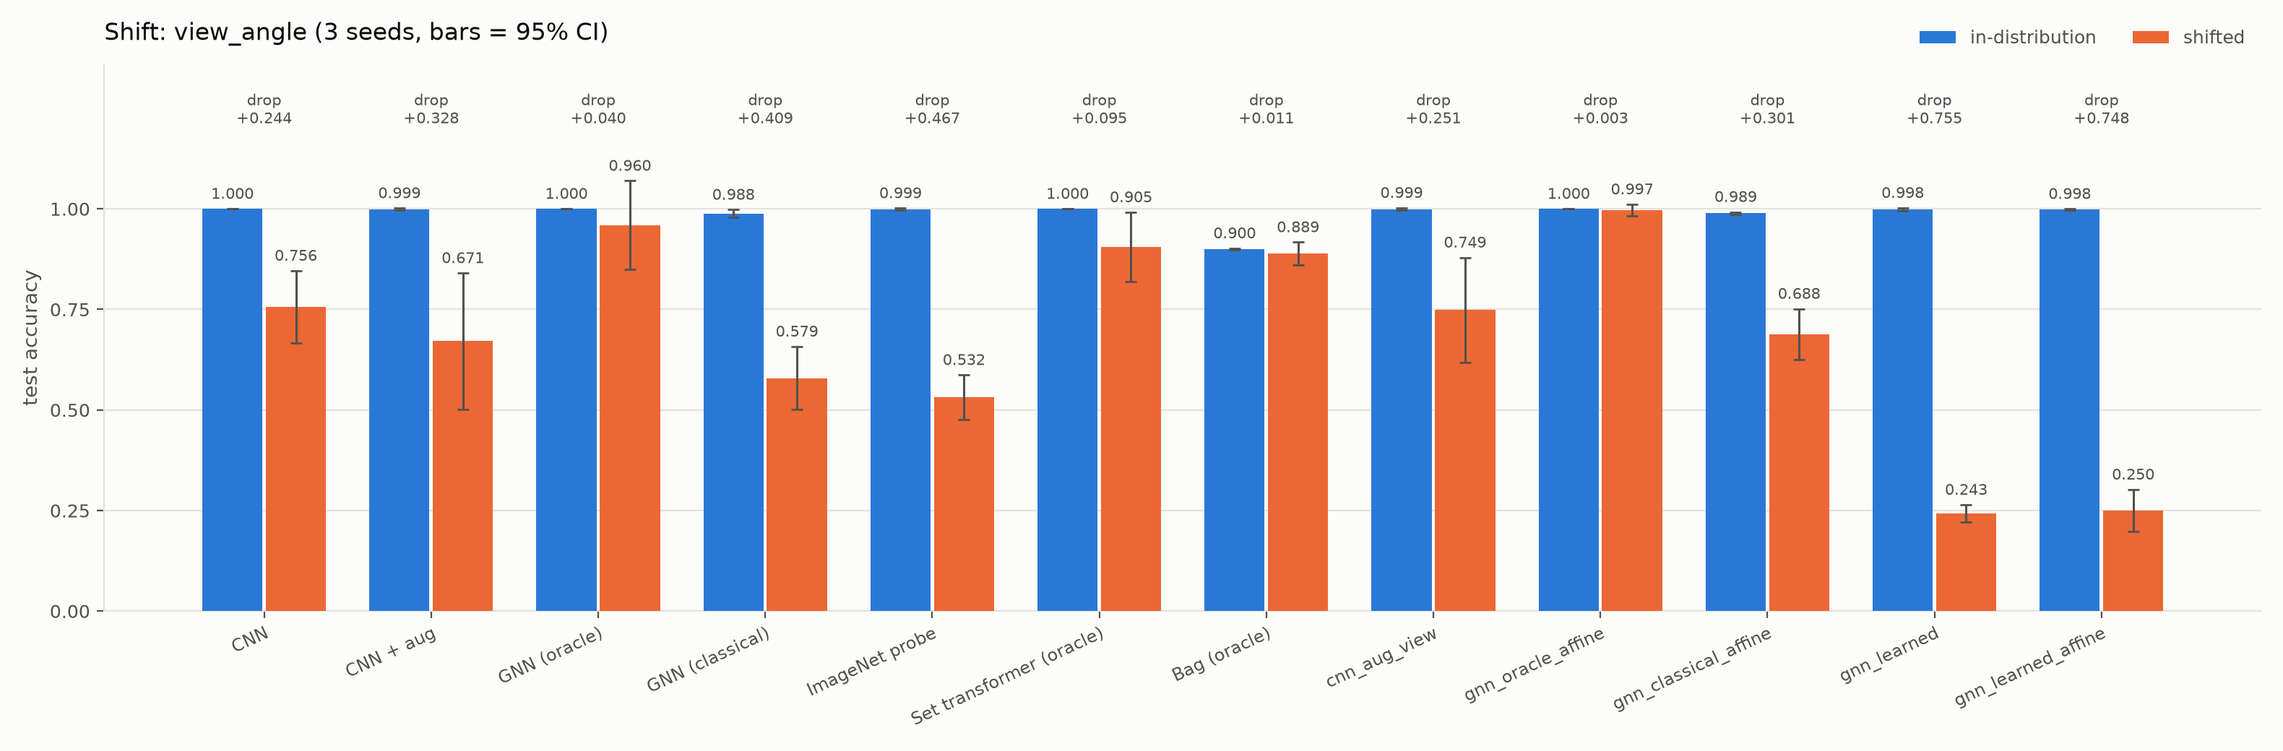
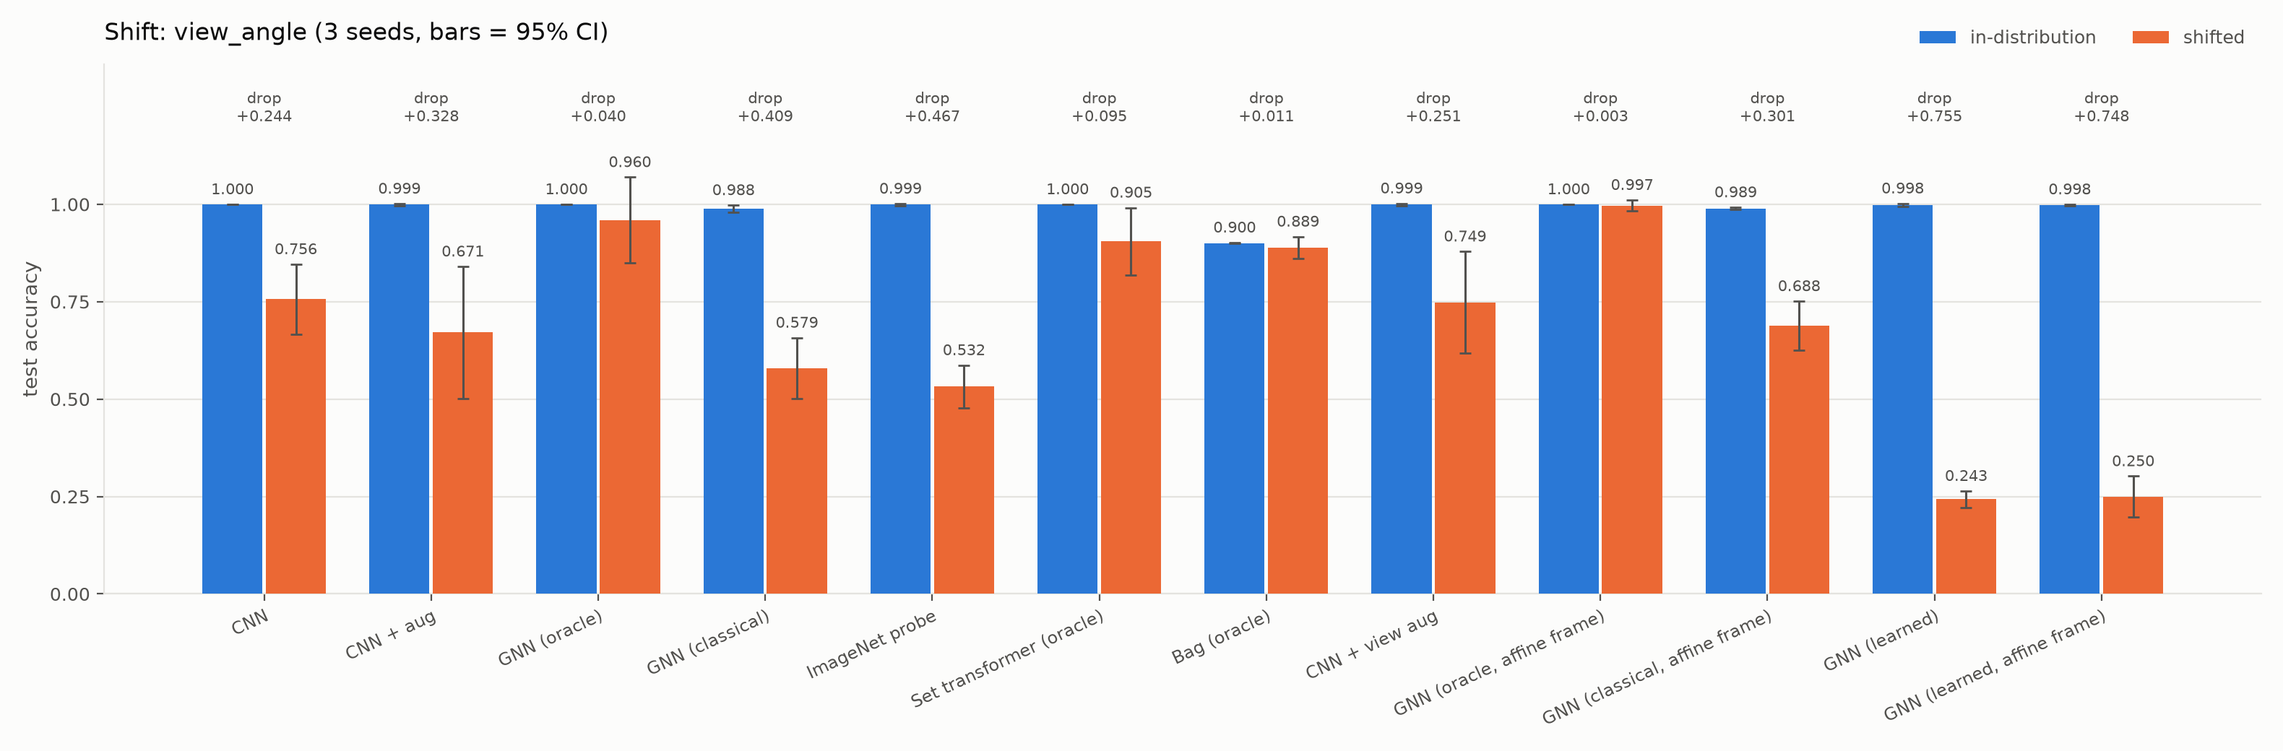
Phase 2 results: angle extrapolation, full-range few-shot, rotation relation test
- results/phase2/SUMMARY.md: the done-when check and every table. The
  oracle GNN in the affine frame extrapolates from 0-30 to 70 degrees
  with no loss (0.996) where pixel models fall to 0.38-0.60; the
  advantage is lost in extraction (classical 0.616, learned 0.133).
- Learning-curve plots switch to small multiples (<= 4 series per panel)
  when there are more than five models; display names for every model.

Claude-Session: https://claude.ai/code/session_01SojNaaWHiJoRRuxsTd6pEi

diff --git a/scripts/plot_results.py b/scripts/plot_results.py
@@ -77,6 +77,20 @@ DISPLAY_NAMES = {
     "bag_classical": "Bag (classical)",
     "gnn_oracle_max": "GNN (oracle, max pool)",
     "gnn_oracle_attn": "GNN (oracle, attention pool)",
+    "gnn_oracle_affine": "GNN (oracle, affine frame)",
+    "gnn_classical_affine": "GNN (classical, affine frame)",
+    "gnn_learned": "GNN (learned)",
+    "gnn_learned_affine": "GNN (learned, affine frame)",
+    "cnn_aug_view": "CNN + view aug",
+    "cnn_aug_view_rot": "CNN + view/rot aug",
+    "cnn_aug_color": "CNN + colour aug",
+    "gnn_learned_app": "GNN (appearance-trained detector)",
+    "gnn_strokefit": "GNN (stroke fit)",
+    "st_strokefit": "Set transformer (stroke fit)",
+    "bag_strokefit": "Bag (stroke fit)",
+    "gnn_samfit": "GNN (SAM fit)",
+    "st_samfit": "Set transformer (SAM fit)",
+    "bag_samfit": "Bag (SAM fit)",
 }
 
 
@@ -125,7 +139,81 @@ def model_order(conditions: Dict[str, dict]) -> List[str]:
     return known + [m for m in seen if m not in known]
 
 
+PANEL_SLOTS = ["#2a78d6", "#eb6834", "#1baf7a", "#eda100"]  # validated slots 1-4
+PANEL_MARKERS = ["o", "s", "^", "D"]
+
+
+def model_groups(models: List[str]) -> List[tuple]:
+    """Pixel / oracle-graph / extracted-graph panels of at most four series."""
+    pixel = [m for m in models if m.startswith("cnn")]
+    oracle = [m for m in models if not m.startswith("cnn") and "oracle" in m]
+    other = [m for m in models if m not in pixel and m not in oracle]
+    groups = []
+    for title, ms in (("Pixel models", pixel), ("Graph models, oracle primitives", oracle),
+                      ("Graph models, extracted primitives", other)):
+        for i in range(0, len(ms), 4):
+            groups.append((title if i == 0 else f"{title} (cont.)", ms[i:i + 4]))
+    return groups
+
+
+def plot_learning_curve_panels(summary: dict, out_path: Path, metric: str = "test_acc") -> None:
+    """Small multiples for many models: a colour is never reused within a panel."""
+    conditions = summary["conditions"]
+    sizes = sorted(int(k) for k in conditions)
+    groups = model_groups(model_order(conditions))
+    cols = min(len(groups), 2)
+    rows = (len(groups) + cols - 1) // cols
+    fig, axes = plt.subplots(rows, cols, figsize=(6.6 * cols, 4.3 * rows), dpi=170, squeeze=False)
+    fig.patch.set_facecolor(SURFACE)
+    flat = [a for row in axes for a in row]
+    for ax, (title, models) in zip(flat, groups):
+        _style_axes(ax)
+        ends = []
+        for i, model in enumerate(models):
+            pts = []
+            for n in sizes:
+                entry = conditions[str(n)].get(model, {}).get(metric)
+                mean = _value(entry)
+                if mean is not None:
+                    half = _ci(entry)
+                    pts.append((n, mean, max(0.0, mean - half), min(1.0, mean + half)))
+            if not pts:
+                continue
+            xs, ys, los, his = zip(*pts)
+            ax.fill_between(xs, los, his, color=PANEL_SLOTS[i], alpha=0.14, linewidth=0, zorder=2)
+            ax.plot(xs, ys, color=PANEL_SLOTS[i], linewidth=2, marker=PANEL_MARKERS[i], markersize=6,
+                    markeredgecolor=SURFACE, markeredgewidth=1.2, zorder=3, label=display_name(model))
+            ends.append([ys[-1], xs[-1], display_name(model)])
+        ends.sort(key=lambda e: -e[0])
+        for j in range(1, len(ends)):
+            ends[j][0] = min(ends[j][0], ends[j - 1][0] - 0.06)
+        for y, x, label in ends:
+            ax.annotate(label, xy=(x, y), xytext=(6, 0), textcoords="offset points",
+                        color=TEXT_SECONDARY, fontsize=7.5, va="center", annotation_clip=False)
+        ax.set_xscale("log")
+        ax.set_xticks(sizes)
+        ax.set_xticklabels([str(n) for n in sizes])
+        ax.set_xlim(right=sizes[-1] * 3.5)
+        ax.set_ylim(0, 1.03)
+        ax.set_xlabel("training examples per class", color=TEXT_SECONDARY, fontsize=9)
+        ax.set_ylabel("test accuracy", color=TEXT_SECONDARY, fontsize=9)
+        ax.set_title(title, color=TEXT_PRIMARY, fontsize=10, loc="left")
+        leg = ax.legend(frameon=False, fontsize=7.5, loc="lower right")
+        for t in leg.get_texts():
+            t.set_color(TEXT_SECONDARY)
+    for ax in flat[len(groups):]:
+        ax.axis("off")
+    n_seeds = len(summary.get("seeds", []))
+    fig.suptitle(f"Learning curves ({n_seeds} seeds, band = 95% CI)", color=TEXT_PRIMARY, fontsize=12,
+                 x=0.01, ha="left")
+    fig.tight_layout()
+    fig.savefig(out_path, facecolor=SURFACE)
+    plt.close(fig)
+
+
 def plot_learning_curve(summary: dict, out_path: Path, metric: str = "test_acc") -> None:
+    if len(model_order(summary["conditions"])) > 5:
+        return plot_learning_curve_panels(summary, out_path, metric)
     conditions = summary["conditions"]
     sizes = sorted(int(k) for k in conditions)
     models = model_order(conditions)

diff --git a/results/phase2/SUMMARY.md b/results/phase2/SUMMARY.md
@@ -1,0 +1,137 @@
+# Phase 2 results: viewpoint transformations
+
+PLAN.md section 6. The Phase 1 drawings are seen through a planar map
+applied to the primitives themselves, so the ground truth stays exact
+(`src/shapeprim/data/transforms.py`). The map is one of:
+- a perspective tilt, with "viewing angle" running from 0° (frontal) to 70°;
+- an in-plane rotation;
+- shear or squash.
+
+Circles become ellipses and rectangles become quadrilaterals. Setup:
+- 64 px images, 3 seeds, mean ± Student-t 95% CI;
+- the Phase 1 protocol: 500-step floor, precise BN, validation on the
+  training distribution.
+
+**Two ways to handle viewpoint** (PLAN.md's key design decision):
+- *learned* invariance: the bbox-normalised graph, where the model has to
+  learn viewpoint from examples;
+- *built-in* invariance: `graph_frame: affine`. Each object's second-moment
+  matrix is whitened, which removes shear and squash exactly and
+  perspective foreshortening to first order. Orientation is kept on
+  purpose, so tree and arrow sign stay distinct.
+
+**Extractors:**
+
+| Extractor | What it is | F1 frontal | 0–30° | 30–50° | 50–70° |
+|---|---|---|---|---|---|
+| oracle | the true primitives | 1.000 | 1.000 | 1.000 | 1.000 |
+| `classical_v2` | OpenCV, rotated ellipses, exact quadrilateral vertices | 0.821 | 0.806 | 0.720 | 0.543 |
+| learned | a small class-agnostic CenterNet, trained on 0–30° only (6,000 primitive-labelled images, 22,800 primitive labels) | 1.000 | 0.999 | 0.971 | 0.390 |
+
+The learned detector's full report is in `learned_extractor/`.
+
+## Done-when check
+
+| PLAN.md criterion | Outcome |
+|---|---|
+| Accuracy-vs-angle plots for all models | **Met.** `angle_extrapolation/angle_curve.png`, `full_range/angle_curve_n*.png`, `relation_rotation/rot_curve.png` |
+| Clear whether the advantage comes from the representation or is lost in extraction | **Met: both, cleanly separated.** With oracle primitives the graph extrapolates almost perfectly. With either real extractor the advantage is lost, because the extractors degrade exactly where the pixel models do. |
+
+## Angle extrapolation: train 0–30°, test up to 70° (`angle_extrapolation/`, 150/class)
+
+| model | 30–40° | 40–50° | 50–60° | 60–70° |
+|---|---|---|---|---|
+| **GNN (oracle, affine frame)** | 0.999 | 0.998 | **0.997** | **0.996** |
+| GNN (oracle) | 0.998 | 0.994 | 0.986 | 0.933 |
+| Set transformer (oracle) | 0.998 | 0.984 | 0.945 | 0.866 |
+| Bag (oracle) | 0.898 | 0.895 | 0.895 | 0.880 |
+| CNN | 0.999 | 0.991 | 0.912 | 0.602 |
+| CNN + view aug (shear + perspective) | 0.998 | 0.988 | 0.899 | 0.593 |
+| CNN + aug | 0.996 | 0.963 | 0.820 | 0.522 |
+| ImageNet probe | 0.994 | 0.952 | 0.696 | 0.381 |
+| GNN (classical, affine frame) | 0.941 | 0.888 | 0.778 | 0.616 |
+| GNN (classical) | 0.934 | 0.864 | 0.696 | 0.459 |
+| GNN (learned) | 0.987 | 0.833 | 0.359 | 0.133 |
+
+- **The representation extrapolates.** With the affine frame the oracle
+  GNN is flat to 70°, while every pixel model falls to 0.38–0.60.
+  Built-in invariance beats learned invariance: 0.996 against 0.933 at
+  60–70°.
+- **Extraction takes the advantage away.**
+  - `classical_v2` in the affine frame ends level with the CNN (0.616 against 0.602).
+  - The learned detector matches the oracle inside its training range but
+    collapses past 50° (F1 0.16 at 60–70°). The GNN on its output then
+    falls below every pixel model.
+  - The affine frame helps the classical extractor (+0.16 at 60–70°). It
+    can't help the learned one, whose primitives are simply missing.
+
+## Full-range training and few-shot at angles (`full_range/`)
+
+Train and test on all viewing angles 0–70°:
+
+| model | 5/class | 10 | 25 | 150 | 60–70° bin at 5/class |
+|---|---|---|---|---|---|
+| **GNN (oracle, affine frame)** | **1.000** | 1.000 | 0.999 | 1.000 | **1.000** |
+| GNN (oracle) | 0.990 | 0.995 | 1.000 | 1.000 | 0.954 |
+| Set transformer (oracle) | 0.993 | 0.994 | 0.999 | 0.999 | 0.972 |
+| CNN + view aug | 0.960 | 0.977 | 0.994 | 0.997 | 0.815 |
+| CNN + aug | 0.941 | 0.968 | 0.986 | 0.995 | 0.729 |
+| ImageNet probe | 0.884 | 0.927 | 0.964 | 0.985 | 0.529 |
+| CNN | 0.441 | 0.687 | 0.893 | 0.996 | 0.260 |
+| GNN (classical, affine frame) | 0.655 | 0.743 | 0.806 | 0.944 | 0.413 |
+| GNN (learned) | 0.770 | 0.803 | 0.826 | 0.851 | 0.184 |
+| Bag (oracle) | 0.891 | 0.893 | 0.896 | 0.895 | 0.886 |
+
+Under viewpoint change, PLAN.md's H1 (sample efficiency) *does* hold
+with oracle primitives. At 5 examples per class the affine-frame GNN is
+at 1.000 against 0.960 for the best augmented CNN; in the steepest bin
+the gap is 1.000 against 0.815. With 150 examples per class the pixel
+models catch up (0.997).
+
+With extracted primitives, the graph models trail every augmented pixel
+model at every size. Caveat: the learned detector was trained only on
+0–30°, so in this experiment it runs outside its training range at steep
+angles, and its curve plateaus at 0.85.
+
+## Relation test under rotation (`relation_rotation/`)
+
+Train with in-plane rotation up to 30° (plus viewing angle 0–30°); test
+on 30–60° and 60–90°. Rotation is capped at 90° because tree and arrow
+sign are exact vertical flips: at 180° they are identical (PLAN.md §8).
+
+| model | 30–60° | 60–90° | tree/arrow at 60–90° |
+|---|---|---|---|
+| GNN (oracle) | 0.948 | **0.807** ± 0.057 | **0.78** |
+| GNN (oracle, affine frame) | 0.943 | 0.802 ± 0.113 | 0.68 |
+| Set transformer (oracle) | 0.959 | 0.782 ± 0.201 | 0.66 |
+| CNN + view/rotation aug (±45°) | **0.966** | 0.727 ± 0.142 | 0.54 |
+| GNN (classical) | 0.900 | 0.621 ± 0.175 | 0.43 |
+| CNN | 0.715 | 0.253 ± 0.076 | 0.00 |
+| Bag (oracle) | 0.899 | 0.899 | 0.49 |
+
+- **Rotation is the hardest transform for every model.** The graph is
+  deliberately *not* rotation-invariant: absolute orientation separates
+  the twins.
+- **Oracle primitives help at the largest rotations**, but the intervals
+  are wide.
+- **The plain CNN swaps the twins.** It calls every rotated tree an arrow
+  sign and vice versa (0.00 on the pair), which is the known symmetry
+  limit reached early.
+- **The affine frame does not help against rotation**, as designed: it
+  removes shear and squash, not orientation.
+
+## What this means for the hypotheses
+
+- **H3 (viewpoint):** supported for the representation. The oracle
+  affine-frame GNN extrapolates from 0–30° to 70° with no loss, while
+  pixel models, even with perspective augmentation, lose 40–60 points.
+  Not supported for the pipeline: both extractors break down under the
+  same transforms.
+- **H1 (sample efficiency) under viewpoint:** supported with oracle
+  primitives (1.000 against 0.960 at 5/class), not with extraction.
+- **Built-in vs learned invariance:** built-in wins wherever the
+  transform is affine-like. Under rotation it neither helps nor hurts.
+- **Where the effort should go:** extraction under viewpoint change. The
+  learned detector's collapse past its training range repeats the pixel
+  models' failure one stage earlier. Phase 3a asks the same question for
+  appearance.

diff --git a/results/phase2/full_range/results.md b/results/phase2/full_range/results.md
@@ -15,11 +15,11 @@ Intervals are Student-t 95% confidence intervals over seeds (t = 4.303 at 3 seed
 | ImageNet probe | 0.884 ± 0.048 | 0.904 ± 0.071 | 0.875 ± 0.066 | - | 150 ± 4 | 11,181,642 |
 | Set transformer (oracle) | 0.993 ± 0.009 | 0.994 ± 0.025 | 0.990 ± 0.012 | 1.000 ± 0.000 | 6 ± 0 | 89,290 |
 | Bag (oracle) | 0.891 ± 0.021 | 0.905 ± 0.012 | 0.488 ± 0.019 | 1.000 ± 0.000 | 2 ± 0 | 5,642 |
-| cnn_aug_view | 0.960 ± 0.021 | 0.969 ± 0.025 | 0.947 ± 0.093 | - | 233 ± 12 | 11,173,962 |
-| gnn_oracle_affine | 1.000 ± 0.000 | 1.000 ± 0.000 | 1.000 ± 0.000 | 1.000 ± 0.000 | 5 ± 1 | 57,549 |
-| gnn_classical_affine | 0.655 ± 0.109 | 0.670 ± 0.076 | 0.568 ± 0.328 | 0.660 ± 0.000 | 4 ± 1 | 57,549 |
-| gnn_learned | 0.770 ± 0.022 | 0.788 ± 0.063 | 0.793 ± 0.026 | 0.777 ± 0.000 | 4 ± 1 | 57,549 |
-| gnn_learned_affine | 0.762 ± 0.038 | 0.782 ± 0.050 | 0.770 ± 0.022 | 0.777 ± 0.000 | 4 ± 0 | 57,549 |
+| CNN + view aug | 0.960 ± 0.021 | 0.969 ± 0.025 | 0.947 ± 0.093 | - | 233 ± 12 | 11,173,962 |
+| GNN (oracle, affine frame) | 1.000 ± 0.000 | 1.000 ± 0.000 | 1.000 ± 0.000 | 1.000 ± 0.000 | 5 ± 1 | 57,549 |
+| GNN (classical, affine frame) | 0.655 ± 0.109 | 0.670 ± 0.076 | 0.568 ± 0.328 | 0.660 ± 0.000 | 4 ± 1 | 57,549 |
+| GNN (learned) | 0.770 ± 0.022 | 0.788 ± 0.063 | 0.793 ± 0.026 | 0.777 ± 0.000 | 4 ± 1 | 57,549 |
+| GNN (learned, affine frame) | 0.762 ± 0.038 | 0.782 ± 0.050 | 0.770 ± 0.022 | 0.777 ± 0.000 | 4 ± 0 | 57,549 |
 
 ## 10 training examples per class
 
@@ -32,11 +32,11 @@ Intervals are Student-t 95% confidence intervals over seeds (t = 4.303 at 3 seed
 | ImageNet probe | 0.927 ± 0.024 | 0.929 ± 0.062 | 0.912 ± 0.075 | - | 138 ± 3 | 11,181,642 |
 | Set transformer (oracle) | 0.994 ± 0.009 | 0.998 ± 0.007 | 0.993 ± 0.019 | 1.000 ± 0.000 | 6 ± 1 | 89,290 |
 | Bag (oracle) | 0.893 ± 0.020 | 0.912 ± 0.004 | 0.482 ± 0.047 | 1.000 ± 0.000 | 2 ± 0 | 5,642 |
-| cnn_aug_view | 0.977 ± 0.009 | 0.984 ± 0.007 | 0.957 ± 0.101 | - | 226 ± 7 | 11,173,962 |
-| gnn_oracle_affine | 1.000 ± 0.001 | 1.000 ± 0.000 | 1.000 ± 0.000 | 1.000 ± 0.000 | 4 ± 1 | 57,549 |
-| gnn_classical_affine | 0.743 ± 0.061 | 0.757 ± 0.130 | 0.700 ± 0.176 | 0.660 ± 0.000 | 3 ± 0 | 57,549 |
-| gnn_learned | 0.803 ± 0.008 | 0.808 ± 0.028 | 0.797 ± 0.052 | 0.777 ± 0.000 | 4 ± 0 | 57,549 |
-| gnn_learned_affine | 0.791 ± 0.004 | 0.806 ± 0.009 | 0.792 ± 0.031 | 0.777 ± 0.000 | 4 ± 0 | 57,549 |
+| CNN + view aug | 0.977 ± 0.009 | 0.984 ± 0.007 | 0.957 ± 0.101 | - | 226 ± 7 | 11,173,962 |
+| GNN (oracle, affine frame) | 1.000 ± 0.001 | 1.000 ± 0.000 | 1.000 ± 0.000 | 1.000 ± 0.000 | 4 ± 1 | 57,549 |
+| GNN (classical, affine frame) | 0.743 ± 0.061 | 0.757 ± 0.130 | 0.700 ± 0.176 | 0.660 ± 0.000 | 3 ± 0 | 57,549 |
+| GNN (learned) | 0.803 ± 0.008 | 0.808 ± 0.028 | 0.797 ± 0.052 | 0.777 ± 0.000 | 4 ± 0 | 57,549 |
+| GNN (learned, affine frame) | 0.791 ± 0.004 | 0.806 ± 0.009 | 0.792 ± 0.031 | 0.777 ± 0.000 | 4 ± 0 | 57,549 |
 
 ## 25 training examples per class
 
@@ -49,11 +49,11 @@ Intervals are Student-t 95% confidence intervals over seeds (t = 4.303 at 3 seed
 | ImageNet probe | 0.964 ± 0.008 | 0.968 ± 0.009 | 0.950 ± 0.025 | - | 132 ± 3 | 11,181,642 |
 | Set transformer (oracle) | 0.999 ± 0.003 | 0.999 ± 0.004 | 0.993 ± 0.014 | 1.000 ± 0.000 | 6 ± 1 | 89,290 |
 | Bag (oracle) | 0.896 ± 0.014 | 0.908 ± 0.004 | 0.480 ± 0.069 | 1.000 ± 0.000 | 2 ± 0 | 5,642 |
-| cnn_aug_view | 0.994 ± 0.011 | 0.994 ± 0.014 | 0.997 ± 0.007 | - | 259 ± 3 | 11,173,962 |
-| gnn_oracle_affine | 0.999 ± 0.003 | 1.000 ± 0.000 | 1.000 ± 0.000 | 1.000 ± 0.000 | 4 ± 1 | 57,549 |
-| gnn_classical_affine | 0.806 ± 0.077 | 0.819 ± 0.130 | 0.733 ± 0.385 | 0.660 ± 0.000 | 4 ± 0 | 57,549 |
-| gnn_learned | 0.826 ± 0.021 | 0.824 ± 0.013 | 0.800 ± 0.012 | 0.777 ± 0.000 | 4 ± 1 | 57,549 |
-| gnn_learned_affine | 0.816 ± 0.007 | 0.828 ± 0.004 | 0.808 ± 0.044 | 0.777 ± 0.000 | 4 ± 1 | 57,549 |
+| CNN + view aug | 0.994 ± 0.011 | 0.994 ± 0.014 | 0.997 ± 0.007 | - | 259 ± 3 | 11,173,962 |
+| GNN (oracle, affine frame) | 0.999 ± 0.003 | 1.000 ± 0.000 | 1.000 ± 0.000 | 1.000 ± 0.000 | 4 ± 1 | 57,549 |
+| GNN (classical, affine frame) | 0.806 ± 0.077 | 0.819 ± 0.130 | 0.733 ± 0.385 | 0.660 ± 0.000 | 4 ± 0 | 57,549 |
+| GNN (learned) | 0.826 ± 0.021 | 0.824 ± 0.013 | 0.800 ± 0.012 | 0.777 ± 0.000 | 4 ± 1 | 57,549 |
+| GNN (learned, affine frame) | 0.816 ± 0.007 | 0.828 ± 0.004 | 0.808 ± 0.044 | 0.777 ± 0.000 | 4 ± 1 | 57,549 |
 
 ## 150 training examples per class
 
@@ -66,8 +66,8 @@ Intervals are Student-t 95% confidence intervals over seeds (t = 4.303 at 3 seed
 | ImageNet probe | 0.985 ± 0.009 | 0.995 ± 0.011 | 0.980 ± 0.012 | - | 168 ± 96 | 11,181,642 |
 | Set transformer (oracle) | 0.999 ± 0.003 | 1.000 ± 0.000 | 0.997 ± 0.014 | 1.000 ± 0.000 | 7 ± 3 | 89,290 |
 | Bag (oracle) | 0.895 ± 0.008 | 0.905 ± 0.016 | 0.477 ± 0.038 | 1.000 ± 0.000 | 3 ± 0 | 5,642 |
-| cnn_aug_view | 0.997 ± 0.005 | 0.998 ± 0.004 | 0.997 ± 0.007 | - | 464 ± 311 | 11,173,962 |
-| gnn_oracle_affine | 1.000 ± 0.000 | 1.000 ± 0.000 | 1.000 ± 0.000 | 1.000 ± 0.000 | 6 ± 3 | 57,549 |
-| gnn_classical_affine | 0.944 ± 0.014 | 0.943 ± 0.031 | 0.945 ± 0.054 | 0.660 ± 0.000 | 10 ± 1 | 57,549 |
-| gnn_learned | 0.851 ± 0.019 | 0.861 ± 0.028 | 0.852 ± 0.104 | 0.777 ± 0.000 | 8 ± 4 | 57,549 |
-| gnn_learned_affine | 0.847 ± 0.020 | 0.858 ± 0.027 | 0.853 ± 0.079 | 0.777 ± 0.000 | 10 ± 8 | 57,549 |
+| CNN + view aug | 0.997 ± 0.005 | 0.998 ± 0.004 | 0.997 ± 0.007 | - | 464 ± 311 | 11,173,962 |
+| GNN (oracle, affine frame) | 1.000 ± 0.000 | 1.000 ± 0.000 | 1.000 ± 0.000 | 1.000 ± 0.000 | 6 ± 3 | 57,549 |
+| GNN (classical, affine frame) | 0.944 ± 0.014 | 0.943 ± 0.031 | 0.945 ± 0.054 | 0.660 ± 0.000 | 10 ± 1 | 57,549 |
+| GNN (learned) | 0.851 ± 0.019 | 0.861 ± 0.028 | 0.852 ± 0.104 | 0.777 ± 0.000 | 8 ± 4 | 57,549 |
+| GNN (learned, affine frame) | 0.847 ± 0.020 | 0.858 ± 0.027 | 0.853 ± 0.079 | 0.777 ± 0.000 | 10 ± 8 | 57,549 |

diff --git a/README.md b/README.md
@@ -15,8 +15,8 @@ each harder than the one before:
 | Phase | Data | Question | Status |
 |---|---|---|---|
 | 1 | Clean, flat 2D drawings (10 classes) | Does the shape-graph representation work at all? | **done**: [results](results/phase1/SUMMARY.md) |
-| 2 | The same drawings under rotation, shear and perspective | Is a bike at an angle still two ellipses and a triangle? | experiments running |
-| 3 | Textures, QuickDraw sketches, real photos | Does it survive realistic appearance? | code ready, queued |
+| 2 | The same drawings under rotation, shear and perspective | Is a bike at an angle still two ellipses and a triangle? | **done**: [results](results/phase2/SUMMARY.md) |
+| 3 | Textures, QuickDraw sketches, real photos | Does it survive realistic appearance? | experiments running |
 
 The hypotheses are sample efficiency (H1), relations matter (H2),
 viewpoint robustness (H3) and appearance robustness (H4). The Phase 1 CNN
@@ -116,6 +116,15 @@ primitive-model advantage shrinks or reverses.
 
 The earlier baseline table in `results/phase1/baseline/` was measured on
 dataset version 1, before the twin fix, and is superseded.
+
+**Phase 2 in one paragraph** ([full results](results/phase2/SUMMARY.md)).
+Trained on viewing angles 0–30°, the oracle GNN with an affine-normalised
+graph stays at 0.996 out to 70°, while every pixel model, including one
+trained with perspective augmentation, falls to 0.38–0.60. It is also
+more sample-efficient under viewpoint change (1.000 against 0.960 at 5
+examples per class). The advantage is lost in extraction, because both
+the classical extractor and the learned detector break down at steep
+angles: the learned detector's F1 falls from 1.0 to 0.16.
 
 ![Phase 1 sample grid](results/phase1/sample_grid.png)
 

diff --git a/results/phase2/angle_extrapolation/results.md b/results/phase2/angle_extrapolation/results.md
@@ -19,8 +19,8 @@ Validation follows the *training* distribution: at selection time the shifted di
 | ImageNet probe | 0.999 ± 0.002 | 0.532 ± 0.055 | 0.467 ± 0.055 | 1.000 ± 0.000 | - | 11,181,642 |
 | Set transformer (oracle) | 1.000 ± 0.000 | 0.905 ± 0.086 | 0.095 ± 0.086 | 1.000 ± 0.000 | 1.000 ± 0.000 | 89,290 |
 | Bag (oracle) | 0.900 ± 0.001 | 0.889 ± 0.028 | 0.011 ± 0.027 | 0.905 ± 0.022 | 1.000 ± 0.000 | 5,642 |
-| cnn_aug_view | 0.999 ± 0.003 | 0.749 ± 0.130 | 0.251 ± 0.128 | 1.000 ± 0.000 | - | 11,173,962 |
-| gnn_oracle_affine | 1.000 ± 0.000 | 0.997 ± 0.014 | 0.003 ± 0.014 | 1.000 ± 0.000 | 1.000 ± 0.000 | 57,549 |
-| gnn_classical_affine | 0.989 ± 0.003 | 0.688 ± 0.063 | 0.301 ± 0.062 | 0.988 ± 0.013 | 0.503 ± 0.000 | 57,549 |
-| gnn_learned | 0.998 ± 0.004 | 0.243 ± 0.021 | 0.755 ± 0.019 | 1.000 ± 0.000 | 0.379 ± 0.000 | 57,549 |
-| gnn_learned_affine | 0.998 ± 0.001 | 0.250 ± 0.052 | 0.748 ± 0.051 | 1.000 ± 0.000 | 0.379 ± 0.000 | 57,549 |
+| CNN + view aug | 0.999 ± 0.003 | 0.749 ± 0.130 | 0.251 ± 0.128 | 1.000 ± 0.000 | - | 11,173,962 |
+| GNN (oracle, affine frame) | 1.000 ± 0.000 | 0.997 ± 0.014 | 0.003 ± 0.014 | 1.000 ± 0.000 | 1.000 ± 0.000 | 57,549 |
+| GNN (classical, affine frame) | 0.989 ± 0.003 | 0.688 ± 0.063 | 0.301 ± 0.062 | 0.988 ± 0.013 | 0.503 ± 0.000 | 57,549 |
+| GNN (learned) | 0.998 ± 0.004 | 0.243 ± 0.021 | 0.755 ± 0.019 | 1.000 ± 0.000 | 0.379 ± 0.000 | 57,549 |
+| GNN (learned, affine frame) | 0.998 ± 0.001 | 0.250 ± 0.052 | 0.748 ± 0.051 | 1.000 ± 0.000 | 0.379 ± 0.000 | 57,549 |

diff --git a/results/phase2/relation_rotation/results.md b/results/phase2/relation_rotation/results.md
@@ -17,5 +17,5 @@ Validation follows the *training* distribution: at selection time the shifted di
 | GNN (classical) | 0.973 ± 0.014 | 0.621 ± 0.175 | 0.352 ± 0.168 | 0.976 ± 0.004 | 0.687 ± 0.000 | 57,549 |
 | Set transformer (oracle) | 0.998 ± 0.009 | 0.782 ± 0.201 | 0.216 ± 0.193 | 1.000 ± 0.000 | 1.000 ± 0.000 | 89,290 |
 | Bag (oracle) | 0.898 ± 0.009 | 0.899 ± 0.006 | -0.001 ± 0.003 | 0.906 ± 0.025 | 1.000 ± 0.000 | 5,642 |
-| cnn_aug_view_rot | 0.998 ± 0.004 | 0.727 ± 0.142 | 0.270 ± 0.142 | 1.000 ± 0.000 | - | 11,173,962 |
-| gnn_oracle_affine | 1.000 ± 0.000 | 0.802 ± 0.113 | 0.198 ± 0.113 | 1.000 ± 0.000 | 1.000 ± 0.000 | 57,549 |
+| CNN + view/rot aug | 0.998 ± 0.004 | 0.727 ± 0.142 | 0.270 ± 0.142 | 1.000 ± 0.000 | - | 11,173,962 |
+| GNN (oracle, affine frame) | 1.000 ± 0.000 | 0.802 ± 0.113 | 0.198 ± 0.113 | 1.000 ± 0.000 | 1.000 ± 0.000 | 57,549 |
